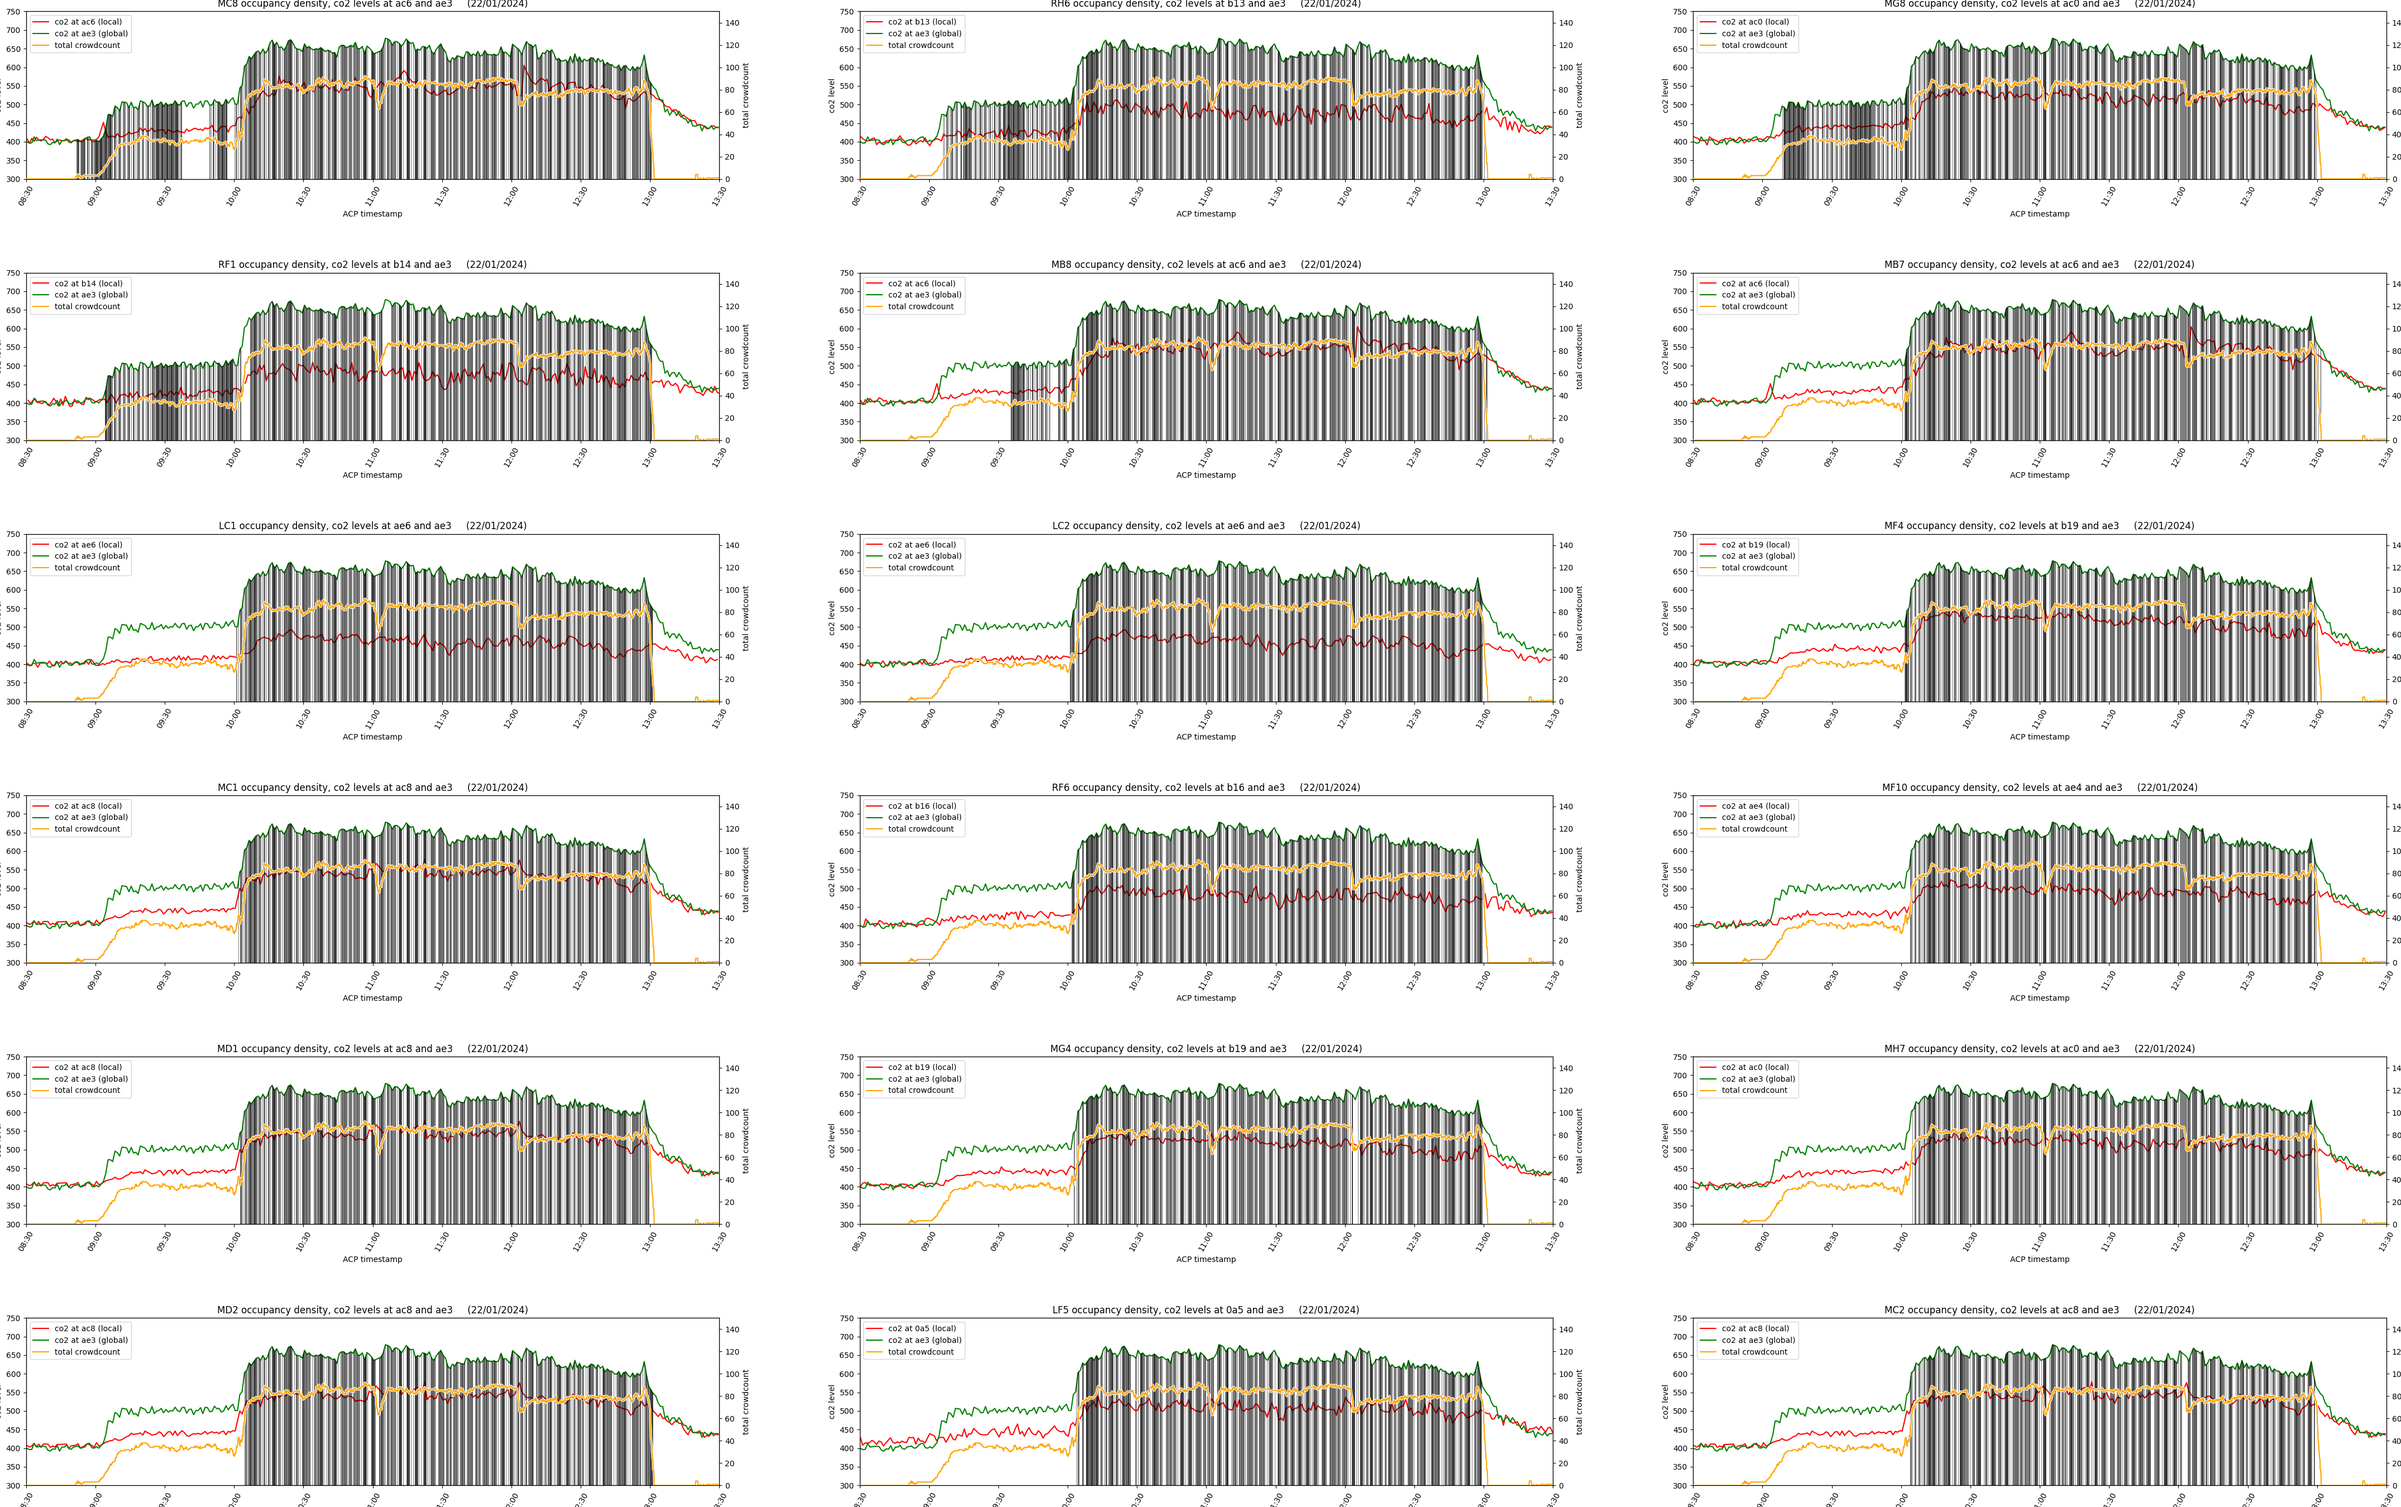
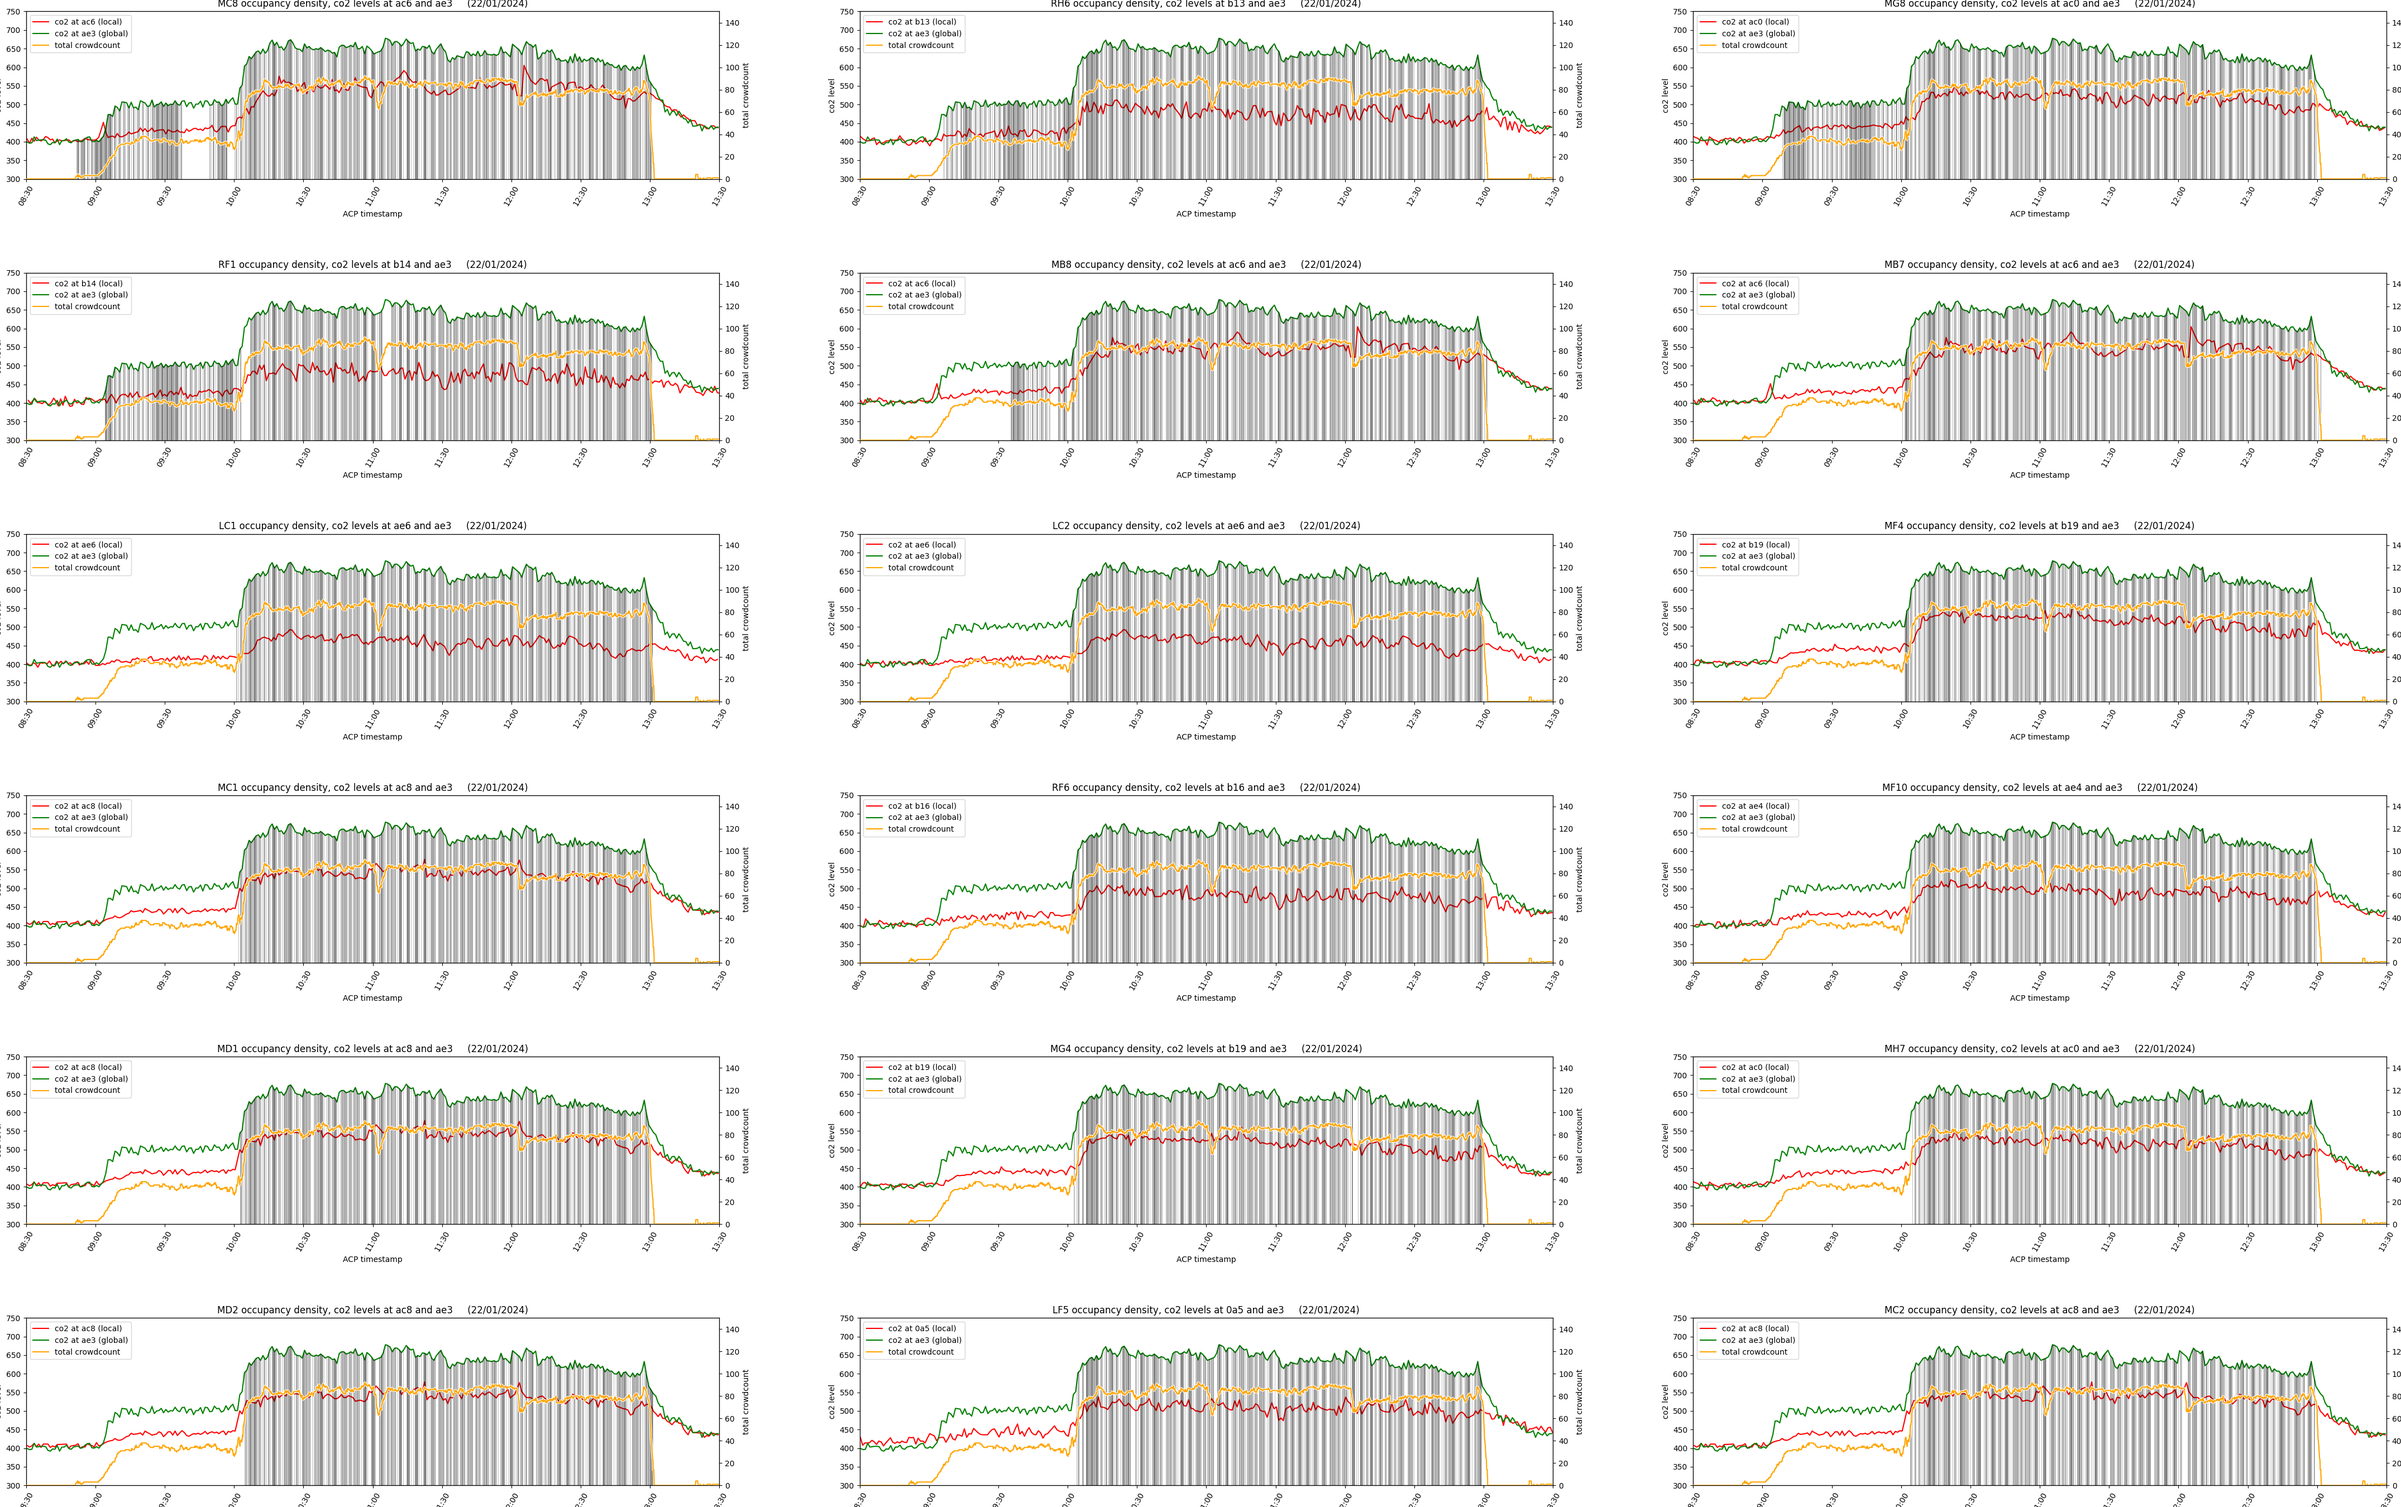
add combined density + barcode plots and fine grain plots

diff --git a/discoveryPhase/facePercentagePlotter.py b/discoveryPhase/facePercentagePlotter.py
@@ -88,10 +88,22 @@ def getSeatTS(seat, day, timeboundaries):
 
 def getSeatTSDensityPoints(seatTS, timeboundaries):
     seatTS = seatTS.to_numpy().reshape(-1, 1)
-    kde = KernelDensity(kernel='gaussian', bandwidth=7.5).fit(seatTS)
-    ts_samples = np.linspace(timeboundaries[0], timeboundaries[1], 500).reshape(-1,1)
-    density = np.exp(kde.score_samples(ts_samples))
+    kde = KernelDensity(kernel='gaussian', bandwidth=0.2).fit(seatTS)
+    ts_samples = np.linspace(timeboundaries[0], timeboundaries[1], len(seatTS)*10)
+    ts_samples_2d = ts_samples.reshape(-1,1)
+    density = np.exp(kde.score_samples(ts_samples_2d))
     return ts_samples, density
+
+def getSeatTSDensityPointsEMA(timestamps, alpha=0.2):
+    intervals = np.diff(timestamps) + 0.05
+    print(timestamps[:20])
+    print(intervals[:19])
+    densities = 1 / intervals
+    emaDensity = [0]
+    for i in range(0, len(densities)):
+        ema = alpha * densities[i] + (1 - alpha) * emaDensity[-1]
+        emaDensity.append(ema)
+    return emaDensity
 
 def getSeatCounts(day, timeboundaries):
     boundedNodeDF = getBoundedNodeDF(day, timeboundaries)
@@ -220,9 +232,8 @@ def plotMultipleMetricWithFaceDetectionFrequency(
         ax.set_xticks(xticksTS)
         ax.set_xticklabels(xticksLabels, rotation=60)
         ax.set_xlim(timeboundaries)
-        ax.set_ylim(getMetricLim(metric))
-
         ax.set_xlabel('ACP timestamp')
+        ax.set_ylim(getMetricLim(metric))
         ax.set_ylabel(f'{metric} level')
         ax.set_title(f'{seat} occupancy density, {metric} levels at {sensor1[-3:]} and {sensor2[-3:]}     ({day}/01/2024)')
 
@@ -232,17 +243,19 @@ def plotMultipleMetricWithFaceDetectionFrequency(
         axDensity.set_yticklabels([])
         if isDensity:
             x, y = getSeatTSDensityPoints(seatTSs[seat], timeboundaries)
-            axDensity.plot(x, y, color='black', label=f'seat occupancy density', zorder=-10)
+            x_interp = np.linspace(timeboundaries[0], timeboundaries[1], 1000)
+            y_interp = np.interp(x_interp, x, y)
+            axDensity.plot(x_interp, y_interp, color='black', label=f'seat occupancy density', zorder=-10)
         else:
             axDensity.set_ylim(getMetricLim(metric))
             closestSensorVals = np.interp(seatTSs[seat], sensor2Points[sensor2][0], sensor2Points[sensor2][1]) if vlineBoundary == 2 else np.interp(seatTSs[seat], sensor1Points[sensor1][0], sensor1Points[sensor1][1])
-            axDensity.bar(seatTSs[seat], closestSensorVals, width=5, align='center', color='black', alpha=0.5)
+            axDensity.bar(seatTSs[seat], closestSensorVals, width=5, align='center', color='black', alpha=0.25)
 
-        ax.plot(sensor1Points[sensor1][0], sensor1Points[sensor1][1], color='w', linewidth=3, zorder=2)
-        ax.plot(sensor1Points[sensor1][0], sensor1Points[sensor1][1], color='r', label=f'{metric} at {sensor1[-3:]} (local)', zorder=3)
+        ax.plot(sensor1Points[sensor1][0], sensor1Points[sensor1][1], color='w', linewidth=3, zorder=9)
+        ax.plot(sensor1Points[sensor1][0], sensor1Points[sensor1][1], color='r', label=f'{metric} at {sensor1[-3:]} (local)', zorder=10)
     
-        ax.plot(sensor2Points[sensor2][0], sensor2Points[sensor2][1], color='w', linewidth=3, zorder=2)
-        ax.plot(sensor2Points[sensor2][0], sensor2Points[sensor2][1], color='g', label=f'{metric} at {sensor2[-3:]} (global)', zorder=3)
+        ax.plot(sensor2Points[sensor2][0], sensor2Points[sensor2][1], color='w', linewidth=3, zorder=9)
+        ax.plot(sensor2Points[sensor2][0], sensor2Points[sensor2][1], color='g', label=f'{metric} at {sensor2[-3:]} (global)', zorder=10)
 
         ax2 = ax.twinx()
         ax2.plot(crowdcountTS, crowdcount, color='w', linewidth=3, zorder=2)
@@ -257,10 +270,89 @@ def plotMultipleMetricWithFaceDetectionFrequency(
         handles = handles1 + handles2 + handles3
         labels = labels1 + labels2 + labels3
         ax.legend(handles, labels, loc='upper left')
-    save_path = f'discoveryPhase/plots/combinedFaceVisibilityPlots2/{metric}-{day}'
+    save_path = f'discoveryPhase/plots/combinedFaceVisibilityPlots3/{metric}-{day}'
     if isDensity:
         save_path += '-density'
     plt.savefig(save_path + '.png', format='png') if isSaved else plt.show()
+
+def plotMultipleFaceDetection(
+        seats: list[str], 
+        day: int, 
+        timeboundaries: tuple[float, float], 
+        isSaved=False,  
+        isDensity=False,
+        isEMA=False,
+        isCombined=False
+    ):
+    seatTSs = {}
+    for seat in seats:
+        seatTSs[seat] = getSeatTS(seat, day, timeboundaries)
+    
+    boundedNodeDF = getBoundedNodeDF(day, timeboundaries)
+    crowdcountTS, crowdcount = boundedNodeDF['acp_ts'], boundedNodeDF['crowdcount']
+
+    fig, axs = plt.subplots(3, 1, figsize=(45, 15))
+    fig.tight_layout(pad=10, w_pad=15, h_pad=10)
+    for ax, seat in zip(axs.flatten(), seats[::15]):
+
+        xticksTS = np.linspace(timeboundaries[0], timeboundaries[1], int((timeboundaries[1]-timeboundaries[0]) / 60) + 1)
+        xticksLabels = np.array([datetime.fromtimestamp(tickTS).strftime('%H:%M') for tickTS in xticksTS])
+        ax.set_xticks(xticksTS)
+        ax.set_xticklabels(xticksLabels, rotation=60)
+        ax.set_xlim(timeboundaries)
+        ax.set_xlabel('ACP timestamp')
+        ax.set_title(f'{seat} occupancy levels     ({day}/01/2024)')
+
+        axDensity = ax.twinx()
+        axDensity.set_xlim(timeboundaries[0], timeboundaries[1])
+        axDensity.set_yticks([])
+        axDensity.set_yticklabels([])
+        if isDensity or isCombined:
+            if isEMA:
+                x = seatTSs[seat]
+                y = getSeatTSDensityPointsEMA(seatTSs[seat])
+            else:
+                x, y = getSeatTSDensityPoints(seatTSs[seat], timeboundaries)
+            axDensity.plot(x, y, color='black', label=f'seat occupancy density', zorder=-10)
+            
+            if isCombined:
+                axDensity2 = axDensity.twinx()
+                axDensity2.set_xlim(timeboundaries[0], timeboundaries[1])
+                axDensity2.set_yticks([])
+                axDensity2.set_yticklabels([])
+                y = np.ones_like(seatTSs[seat])
+                axDensity2.bar(seatTSs[seat], y, width=0.5, align='center', color='black', alpha=0.3)
+        else:
+            y = np.ones_like(seatTSs[seat])
+            axDensity.bar(seatTSs[seat], y, width=1, align='center', color='black', alpha=0.1)
+
+        ax2 = ax.twinx()
+        ax2.plot(crowdcountTS, crowdcount, color='w', linewidth=3, zorder=2)
+        ax2.plot(crowdcountTS, crowdcount, color='orange', label='total crowdcount', zorder=3)
+        ax2.set_ylabel('total crowdcount')
+        ax2.set_ylim(0,150)
+        ax2.tick_params(axis='y')
+
+        handles1, labels1 = ax.get_legend_handles_labels()
+        handles2, labels2 = ax2.get_legend_handles_labels()
+        handles3, labels3 = axDensity.get_legend_handles_labels()
+        handles = handles1 + handles2 + handles3
+        labels = labels1 + labels2 + labels3
+        ax.legend(handles, labels, loc='upper left')
+    save_path = f'discoveryPhase/plots/combinedFaceVisibilityPlots4/{day}'
+    if isCombined:
+        save_path += '-single-combined-interval-EMA'
+    elif isDensity:
+        save_path += '-density'
+        if isEMA:
+            save_path += '-EMA'
+    plt.savefig(save_path + '.png', format='png') if isSaved else plt.show()
+
+def filterae2(day, seat):
+    return not (NEAREST_SENSOR_BY_SEAT[seat] == '058ae2' and day > 22)
+
+def filterac9(day, seat):
+    return not (NEAREST_SENSOR_BY_SEAT[seat] == '058ac9' and day > 24)
 
 def plotMultipleFaceDetectionFrequencyWithMetric(
         day: int, 
@@ -274,19 +366,31 @@ def plotMultipleFaceDetectionFrequencyWithMetric(
     faceDetectionSeatCounts = getSeatCounts(day, timeboundaries)
     sortedFaceDetectionSeats = sorted(faceDetectionSeatCounts, key=faceDetectionSeatCounts.get, reverse=True)
     near_seats = [seat for seats in NEAREST_SEATS_BY_SENSOR.values() for seat in seats]
-
     faceDetectionSeatsNearSensors = []
     for seat in sortedFaceDetectionSeats:
         if seat in near_seats:
             faceDetectionSeatsNearSensors.append(seat)
+    faceDetectionSeatsNearSensors = list(filter(lambda x: filterac9(day, x) and filterae2(day, x), faceDetectionSeatsNearSensors))
     sensor1s = [NEAREST_SENSOR_BY_SEAT[seat] for seat in faceDetectionSeatsNearSensors]
     sensor2s = ['058ae3'] * num_plots
     plotMultipleMetricWithFaceDetectionFrequency(faceDetectionSeatsNearSensors, sensor1s, sensor2s, day, timeboundaries, isSaved, metric, vlineBoundary, num_plots, isDensity=isDensity)
 
+def plotMultipleFaceDetectionFrequency(
+        day: int, 
+        timeboundaries: tuple[float, float], 
+        isSaved=False, 
+        isDensity=False,
+        isEMA=False,
+        isCombined=False,
+    ):
+    faceDetectionSeatCounts = getSeatCounts(day, timeboundaries)
+    sortedFaceDetectionSeats = sorted(faceDetectionSeatCounts, key=faceDetectionSeatCounts.get, reverse=True)
+    plotMultipleFaceDetection(sortedFaceDetectionSeats, day, timeboundaries, isSaved, isDensity, isEMA, isCombined=isCombined)
 
 
 if __name__ == '__main__':
-    DAY = 22
-    timeboundarystart = datetime.strptime(f'2024-1-{DAY} 8:30:00', "%Y-%m-%d %H:%M:%S").timestamp()
-    timeboundaryend = datetime.strptime(f'2024-1-{DAY} 13:30:00', "%Y-%m-%d %H:%M:%S").timestamp()
-    plotMultipleFaceDetectionFrequencyWithMetric(day=DAY, timeboundaries=(timeboundarystart, timeboundaryend), isSaved=True, metric='co2', vlineBoundary=2, num_plots=18, isDensity=True)
+    for DAY in range(22, 27, 2):
+        timeboundarystart = datetime.strptime(f'2024-1-{DAY} 9:20:00', "%Y-%m-%d %H:%M:%S").timestamp()
+        timeboundaryend = datetime.strptime(f'2024-1-{DAY} 9:40:00', "%Y-%m-%d %H:%M:%S").timestamp() 
+        print("plotting", "density + barcode", "on day", DAY)
+        plotMultipleFaceDetectionFrequency(day=DAY, timeboundaries=(timeboundarystart, timeboundaryend), isSaved=True, isDensity=True, isEMA=True, isCombined=True)
